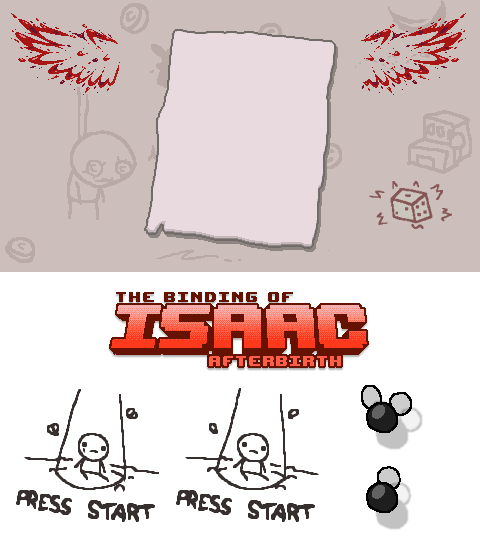
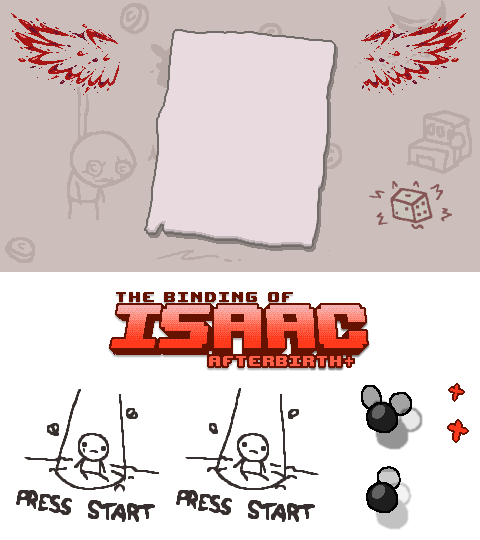
first afterbirth+ version

diff --git a/Miscellaneous/build.py b/Miscellaneous/build.py
@@ -7,7 +7,7 @@ import zipfile
 from PIL import Image, ImageFont, ImageDraw
 
 # Configuration
-version = '1.36'
+version = '4.0.0'
 title_screen_text = 'Jud6s Mod v' + version
 
 # Make a "jud6s_version.txt" file

diff --git a/docs/version_history.md b/docs/version_history.md
@@ -1,5 +1,16 @@
 # Version History
 
+* *2.00* - Unreleased
+  * Updated the mod for Afterbirth+. Install it by [subscribing to the mod on Steam](http://steamcommunity.com/workshop/filedetails/?id=842735484). Next, toggle it on by using the in-game mod menu. There's tons of interesting things that I wanted to do in Afterbirth+, like add two active item slots so that a player could always have the D6, but what is possible is extremely limited.
+  * Eve and Eden now always start with the D6 (thanks to some new Afterbirth+ hacks).
+  * Apollyon now starts with the D6.
+  * Keeper still starts with the Wooden Penny over the D6. However, he now also starts with Duality, which makes racing him more consistent.
+  * Judas now starts with a half filled red heart container.
+  * Blue Baby now starts with 3 and a half soul hearts.
+  * The mod no longer includes a "config.ini", since that can't be bundled with a mod. If you want to use a "config.ini" file, just keep one in your resources directory.
+  * Afterbirth+ fixed charge animations with Azazel/transformations, so the Jud6s mod no longer includes fixes for that.
+  * Removed the "Teleport up" animation, which is fairly useless. (It plays when using Hermit card, and so forth.)
+  * Lengthened all shortened death animations from 1 frame to 4 frames.
 * *1.36* - November 18th
   * Set shields to the highest priority, which should fix the issue with Azazel from the last patch.
 * *1.35* - November 18th
